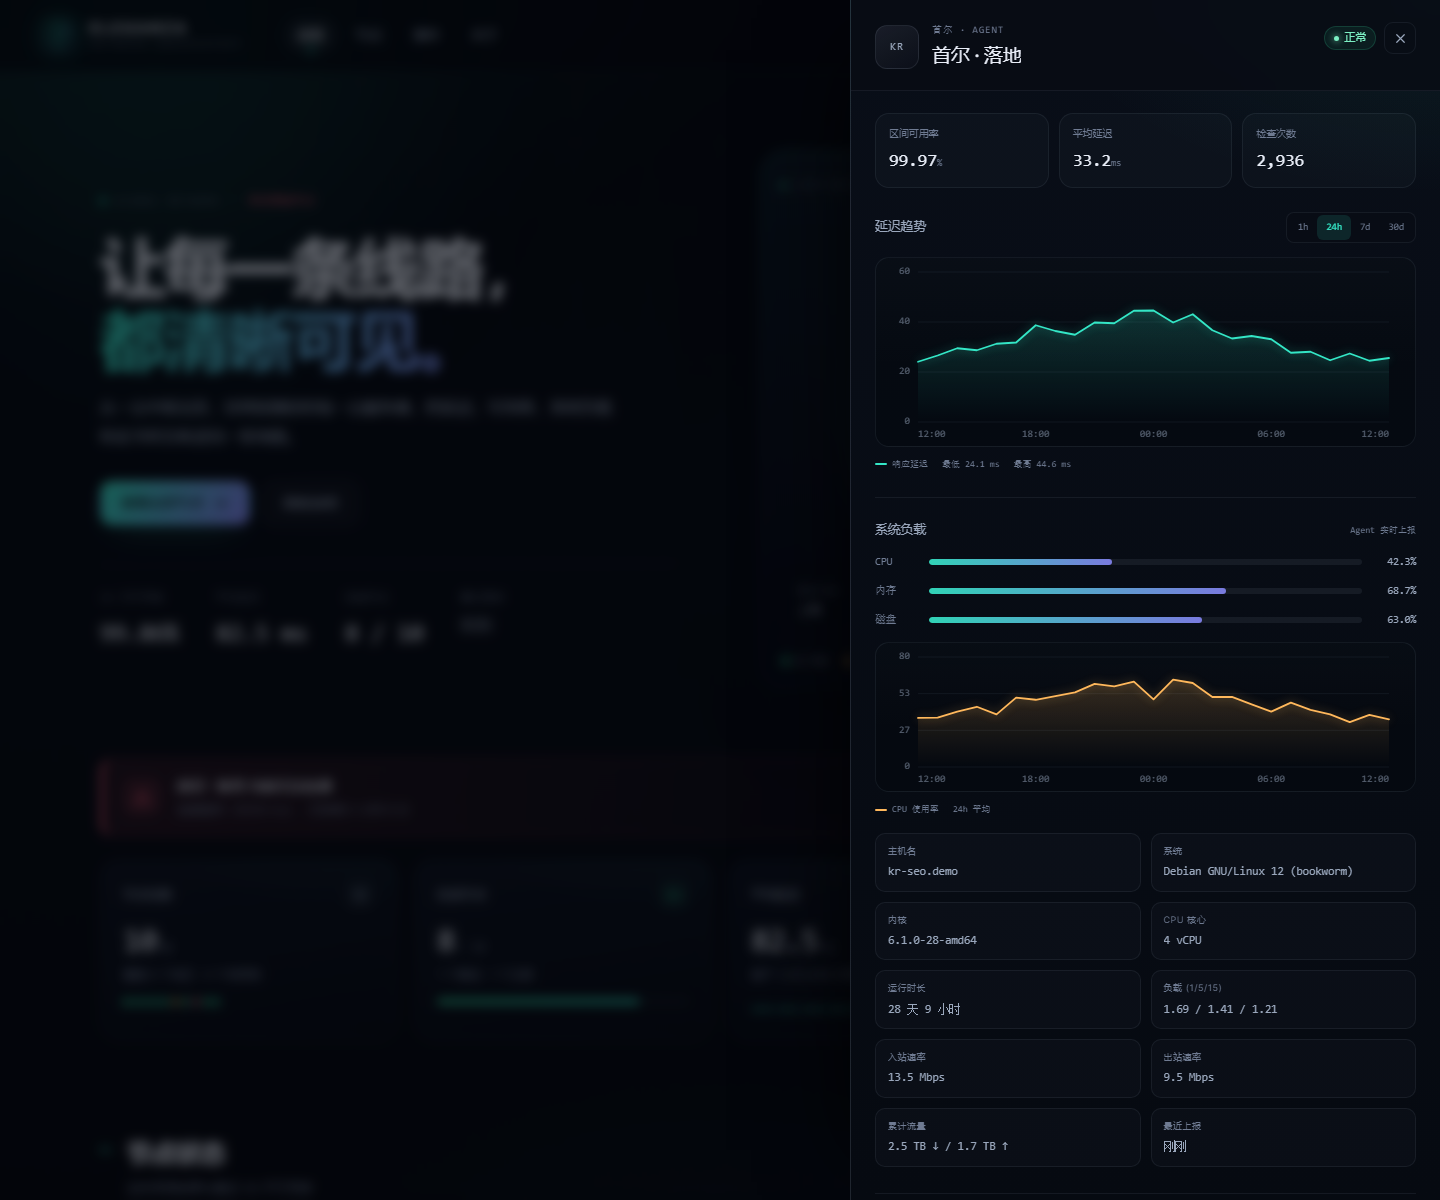
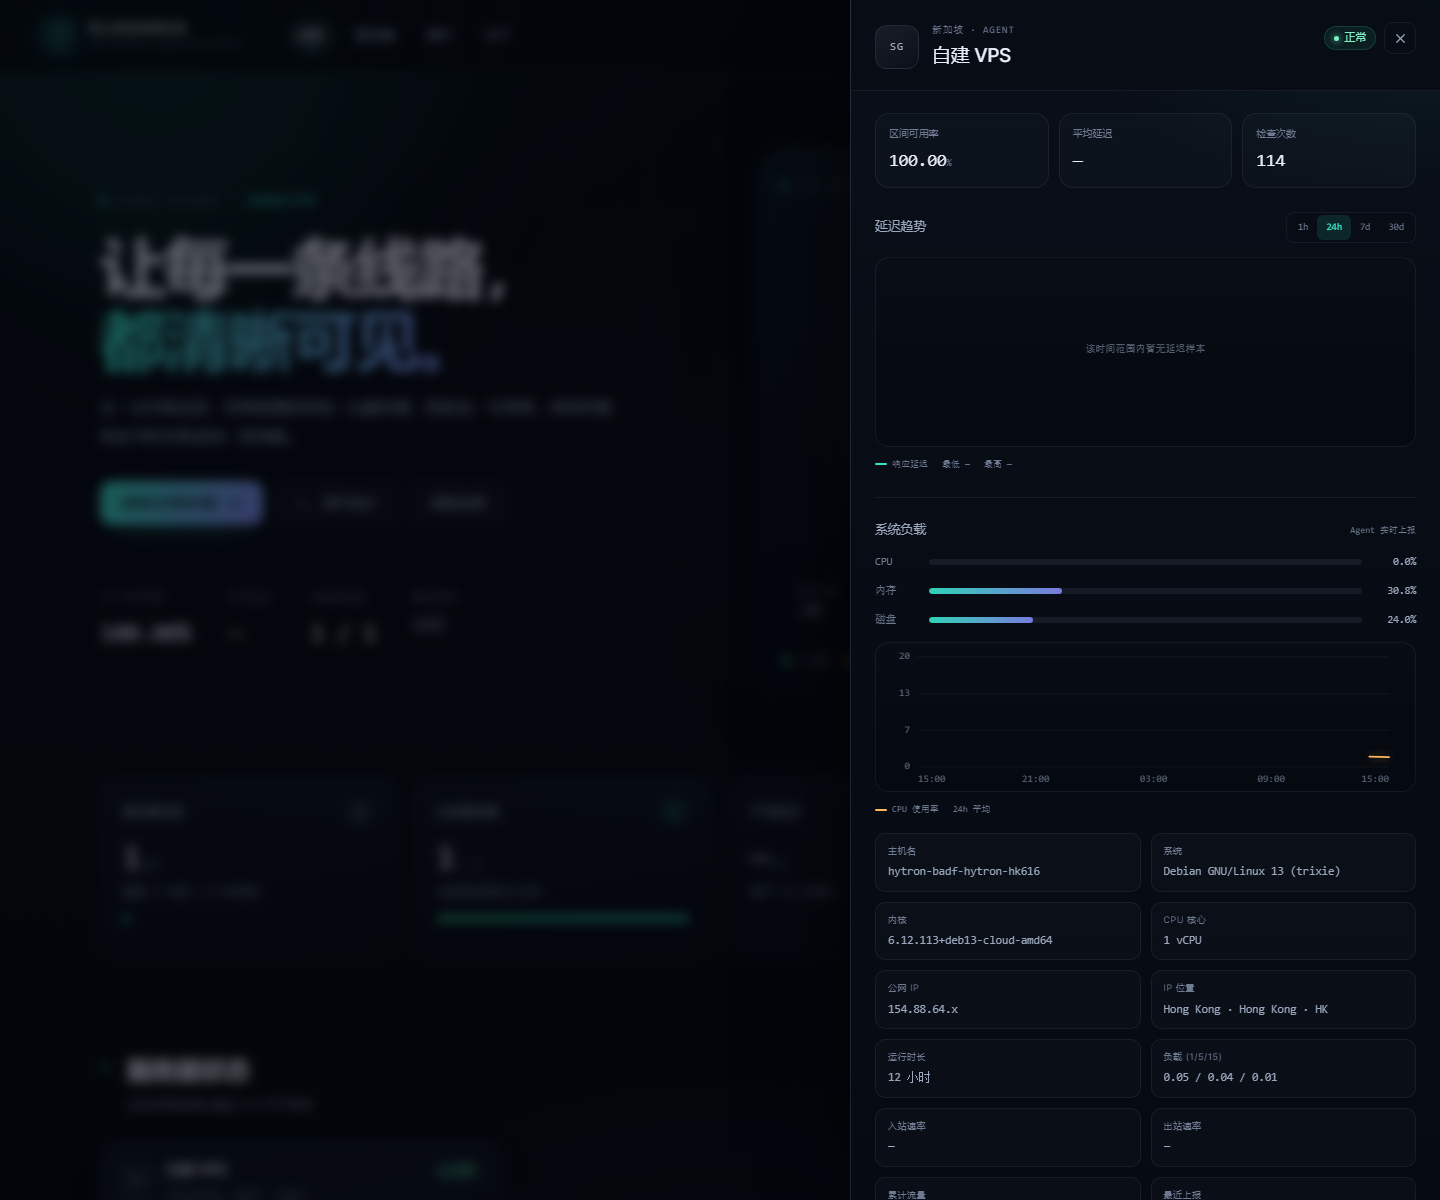
agent: clear stale identity on host change; update docs screenshots

diff --git a/public/app.js b/public/app.js
@@ -607,7 +607,7 @@ function renderIncidents() {
 function renderInfoPanel(overview) {
   if (!els.infoNodes) return;
   const user = state.auth?.user;
-  els.infoNodes.textContent = `${overview.summary.total} 个`;
+  els.infoNodes.textContent = `${overview.summary.total} 台`;
   els.infoChecks.textContent = formatNumber(overview.summary.checks30d);
   els.infoHistory.textContent = `${overview.site.historyDays || 35} 天`;
   els.infoUser.textContent = user
